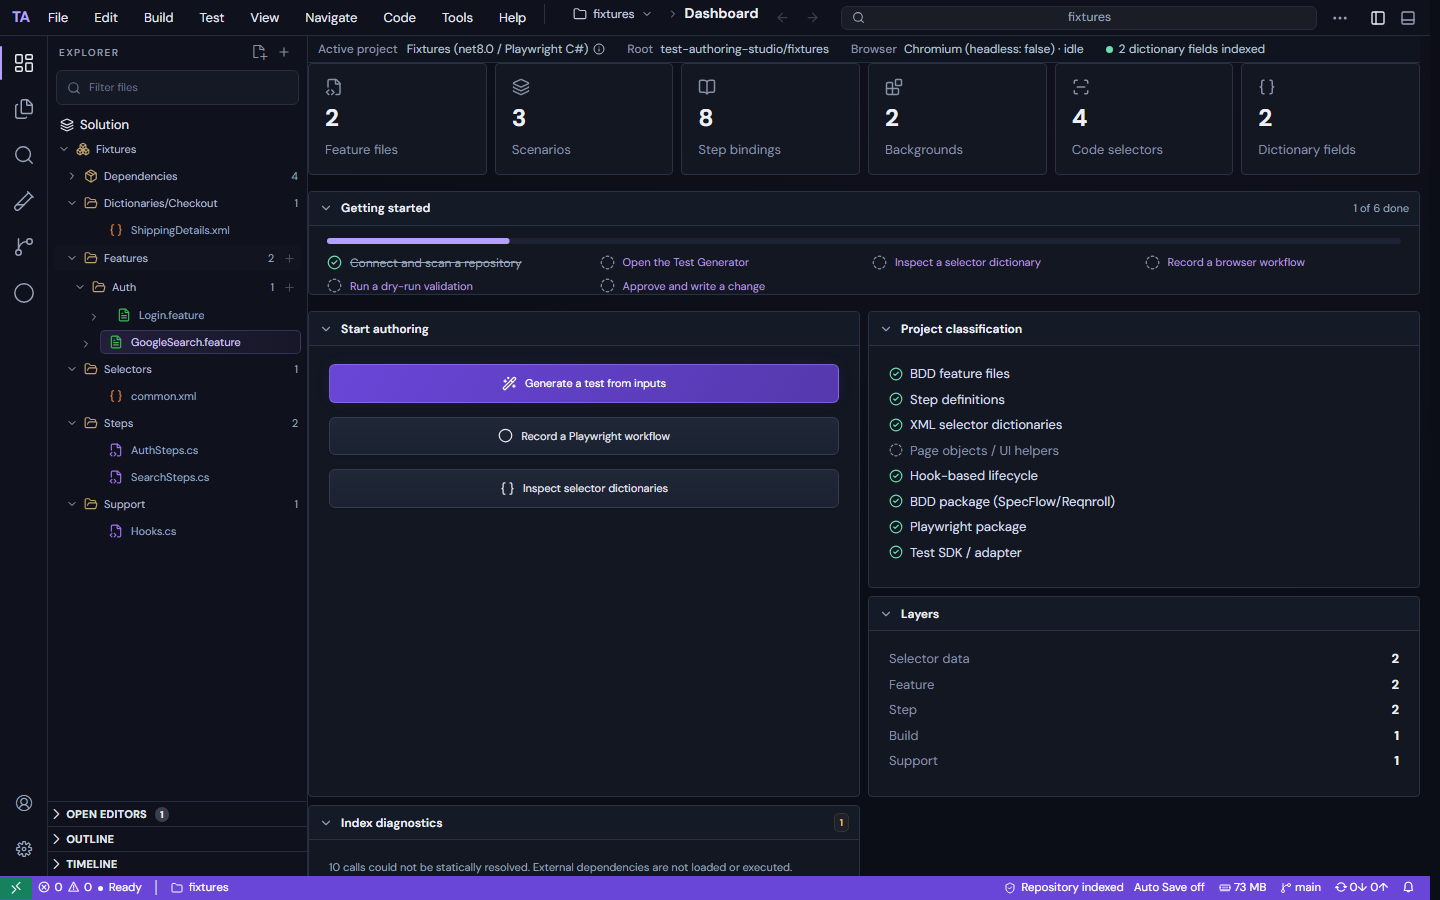
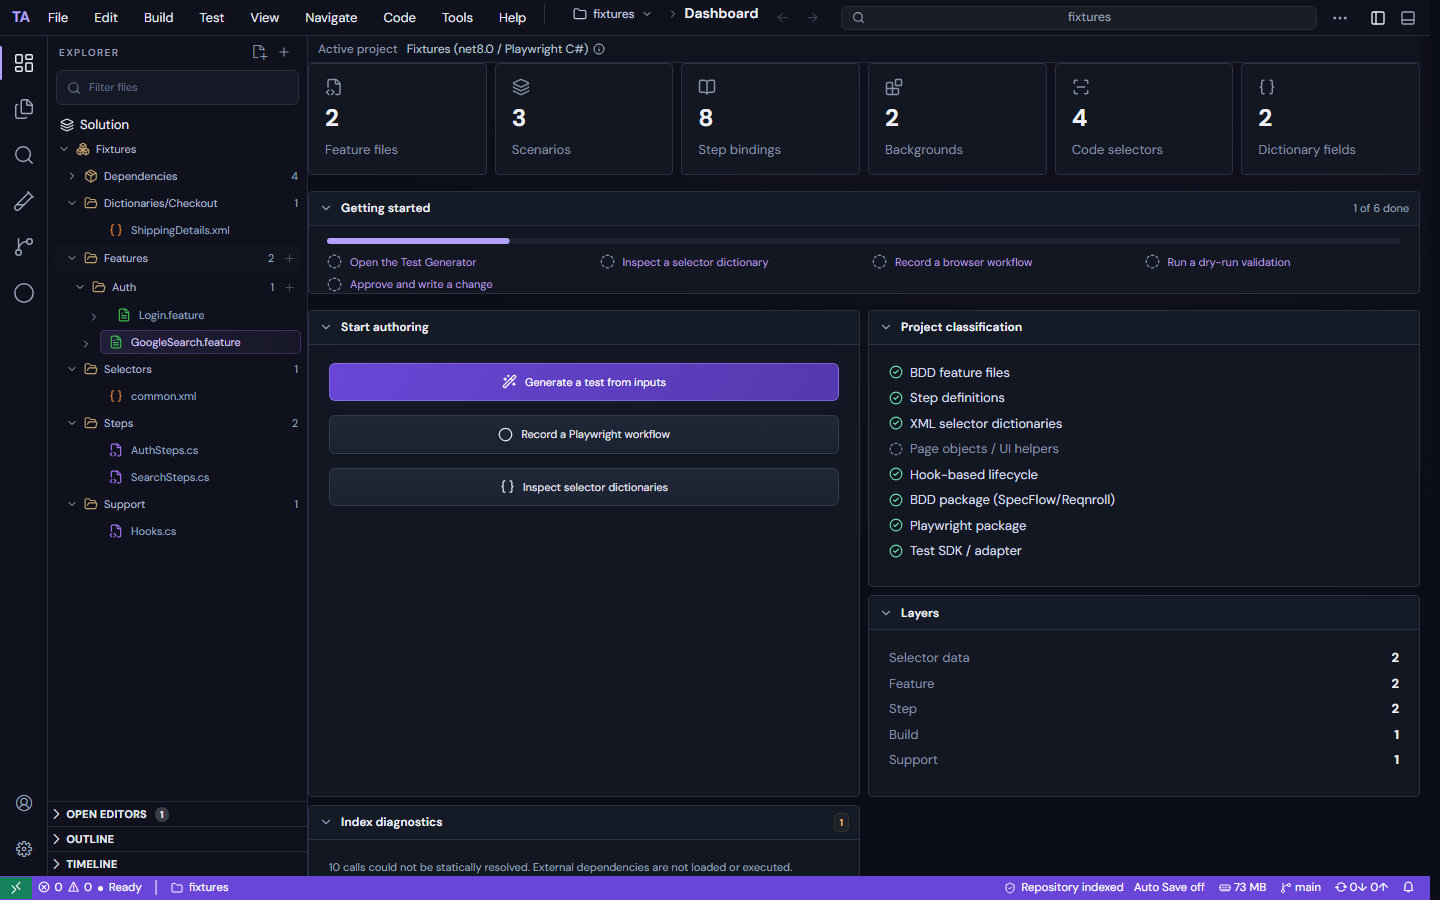
feat(web): simplify dashboard guidance and status

diff --git a/test-authoring-studio/src/Dashboard.tsx b/test-authoring-studio/src/Dashboard.tsx
@@ -4,7 +4,7 @@ import type { Index } from './types';
 import { Button } from './radix';
 import * as Popover from '@radix-ui/react-popover';
 import { useEffect, useState } from 'react';
-import { CircleCheck, CircleDashed, Info } from 'lucide-react';
+import { CircleDashed, Info } from 'lucide-react';
 import { Meter, usePrefs } from './radix2';
 import { milestones, doneMilestones } from './progress';
 import Card from './Card';
@@ -13,11 +13,13 @@ export function ContextBar({ index, config, recordStatus, revision }: { index?: 
   const { model } = useProjectModel(revision);
   const project = model?.projects[0]?.split('/').pop()?.replace(/\.csproj$/, '') ?? model?.root ?? '…';
   const dictionaries = index?.stats?.dictionaries ?? 0;
+  const framework = model?.frameworks.join(', ');
+  const playwright = model?.packages.some((p) => /playwright/i.test(p));
   return (
     <div className="context-bar" aria-label="Project context">
       <Popover.Root>
         <Popover.Trigger asChild>
-          <button className="context-trigger"><strong>Active project</strong> {project}{model?.frameworks.length ? ` (${model.frameworks.join(', ')}` : ' ('}{model?.packages.some((p) => /playwright/i.test(p)) ? ' / Playwright C#)' : ')'}<Info size={12} /></button>
+          <button className="context-trigger"><strong>Active project</strong> {project}{framework || playwright ? ` (${[framework, playwright && 'Playwright C#'].filter(Boolean).join(' / ')})` : ''}<Info size={12} /></button>
         </Popover.Trigger>
         <Popover.Portal>
           <Popover.Content className="popover" sideOffset={6} collisionPadding={12}>
@@ -25,13 +27,15 @@ export function ContextBar({ index, config, recordStatus, revision }: { index?: 
             <ul>{(model?.projects ?? []).map((x) => <li key={x}><code>{x}</code></li>)}{!model?.projects.length && <li className="subtle">No .csproj found.</li>}</ul>
             <span className="micro-label">PACKAGES</span>
             <ul>{(model?.packages ?? []).map((x) => <li key={x}>{x}</li>)}{!model?.packages.length && <li className="subtle">None detected.</li>}</ul>
+            {config?.repositoryRoot && <p><strong>Root</strong> {config.repositoryRoot}</p>}
+            <p><strong>Browser</strong> Chromium · {recordStatus === 'recording' ? 'recording' : 'idle'}</p>
+            <p><strong>Dictionary fields</strong> {dictionaries}</p>
             <Popover.Arrow className="tooltip-arrow" />
           </Popover.Content>
         </Popover.Portal>
       </Popover.Root>
-      <span><strong>Root</strong> {config?.repositoryRoot.split(/[\\/]/).slice(-2).join('/')}</span>
-      <span><strong>Browser</strong> Chromium (headless: false) · {recordStatus === 'recording' ? 'recording' : 'idle'}</span>
-      <span className={dictionaries ? 'ok' : 'warn'}><span className="status-dot" />{dictionaries ? `${dictionaries} dictionary fields indexed` : 'No dictionary XML found'}</span>
+      {recordStatus === 'recording' && <span className="ok"><span className="status-dot" />Recording</span>}
+      {!dictionaries && <span className="warn"><span className="status-dot" />No dictionary XML found</span>}
     </div>
   );
 }
@@ -82,10 +86,10 @@ export default function Dashboard({ index, revision, onNavigate, recent = [], on
             <Meter value={done.size} max={milestones.length} label="Getting started" tone="purple" />
           </div>
           <ul>
-            {milestones.map((m) => (
-              <li key={m.id} className={done.has(m.id) ? 'done' : ''}>
-                {done.has(m.id) ? <CircleCheck size={15} /> : <CircleDashed size={15} />}
-                {targets[m.id] && !done.has(m.id) ? <button className="text-button" onClick={() => onNavigate(targets[m.id])}>{m.label}</button> : <span>{m.label}</span>}
+            {milestones.filter((m) => !done.has(m.id)).map((m) => (
+              <li key={m.id}>
+                <CircleDashed size={15} />
+                {targets[m.id] ? <button className="text-button" onClick={() => onNavigate(targets[m.id])}>{m.label}</button> : <span>{m.label}</span>}
               </li>
             ))}
           </ul>
